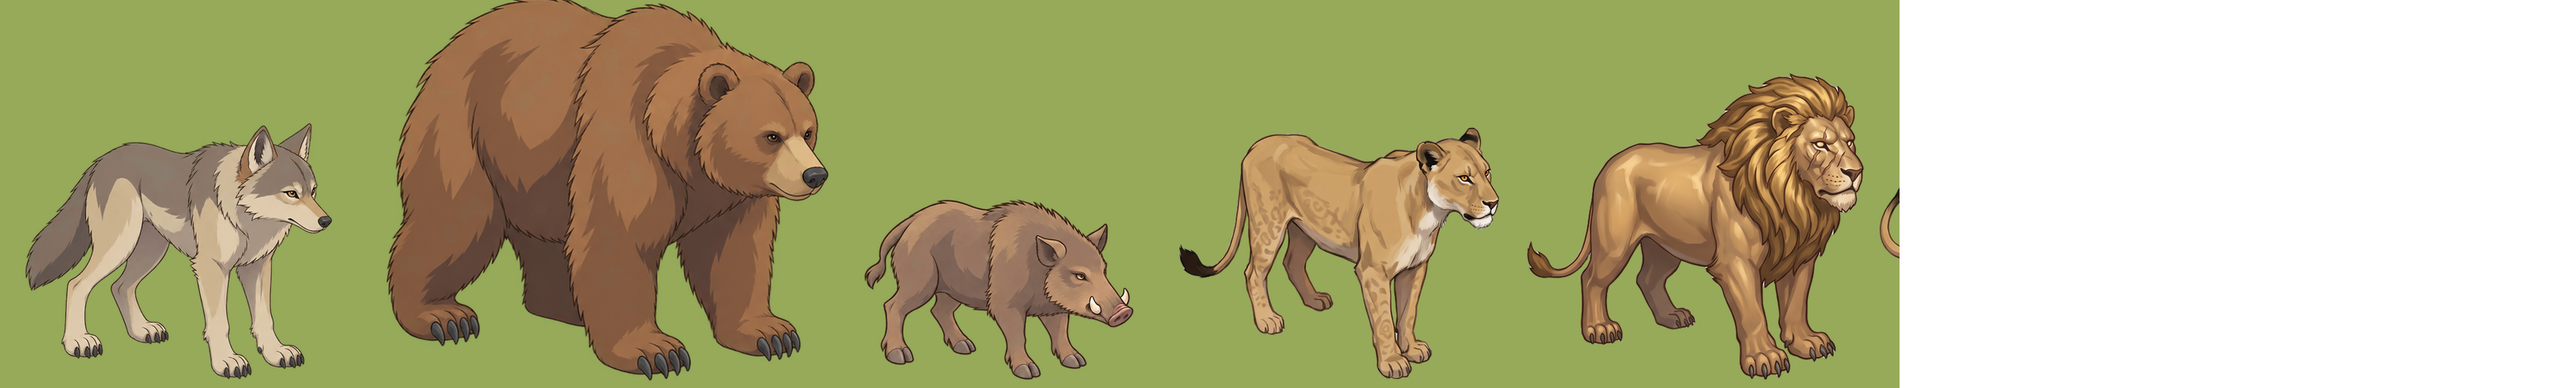
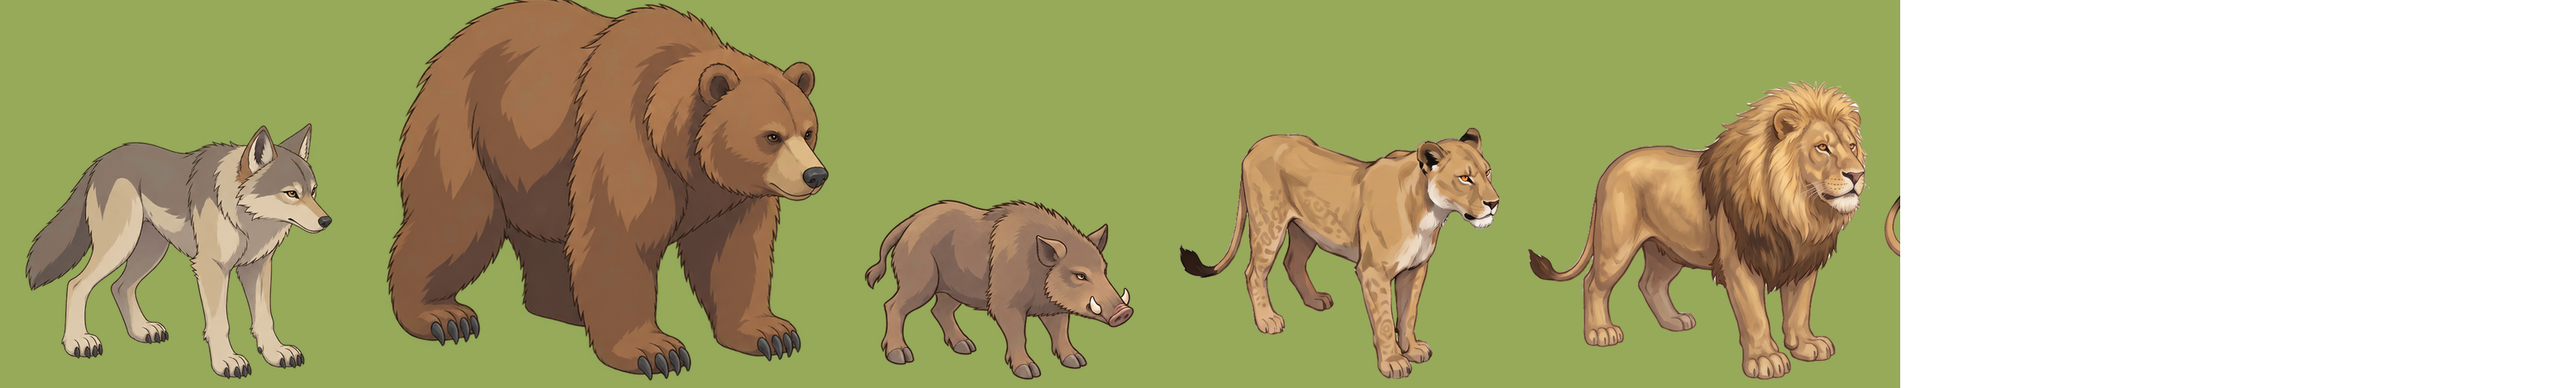
Make the lions naturalistic with thinner line work
Jakob asked for thinner line work and a lion that looks more real. Both pride
sheets were repainted with nano-banana-pro edit as naturalistic
wildlife-illustration lions. The leader now has a real lion's skull and
muzzle, a shaggy mane that is lighter at the face and darker at the chest,
and no fantasy scars.

Prompting alone barely changed line weight, so the packer's new thin_lines()
shaves every thin ink stroke by one pixel per side at 2K and lifts it toward
warm brown. Broad dark areas such as tail tufts, ear backs and mouths stay
untouched.

Claude-Session: https://claude.ai/code/session_01Tn1BkVmeuuLTe7qVsn2x5n

diff --git a/scripts/pack_wildlife.py b/scripts/pack_wildlife.py
@@ -15,6 +15,27 @@ BASELINE = 590
 
 
 
+def thin_lines(image, shave=1, lighten=0.35):
+    """Shave generated ink strokes to the family's fine line and lift them toward warm brown.
+
+    Thin dark strokes vanish under a morphological opening while broad dark areas
+    (tail tufts, ear backs, mouths) survive it and stay untouched. Shaved pixels
+    take the colour of the nearest opaque non-line pixel.
+    """
+    px = np.asarray(image).astype(float)
+    opaque = px[..., 3] > 128
+    dark = opaque & (px[..., :3] @ [0.299, 0.587, 0.114] / 255 < 0.42)
+    broad = ndimage.binary_opening(dark, iterations=5)
+    line = dark & ~ndimage.binary_dilation(broad, iterations=2)
+    core = ndimage.binary_erosion(line, iterations=shave)
+    removed = line & ~core
+    _, (iy, ix) = ndimage.distance_transform_edt(~(opaque & ~line), return_indices=True)
+    out = px.copy()
+    out[removed, :3] = px[iy[removed], ix[removed], :3]
+    out[core, :3] = out[core, :3] * (1 - lighten) + np.array([96.0, 62.0, 40.0]) * lighten
+    return Image.fromarray(out.clip(0, 255).astype(np.uint8), "RGBA")
+
+
 def main():
     source = Image.open(SOURCE).convert("RGBA")
     attacks = Image.open(ATTACK_SOURCE).convert("RGBA")
@@ -69,9 +90,10 @@ def main():
     # so a tail crossing the quadrant edge stays with its body. The lowest
     # (planted) paws sit on the shared baseline.
     half, scale = 1024, 589 / 1024
-    for row, name, source in [(3, "lioness", "huntress"), (4, "lion", "nemean")]:
+    for row, name, source in [(3, "lioness", "huntress_natural"), (4, "lion", "nemean_natural")]:
         sheet = Image.open(ROOT / f"assets/sprites/lion_sources/{source}_cutout.png").convert("RGBA")
         assert sheet.size == (2 * half, 2 * half)
+        sheet = thin_lines(sheet)
         alpha = np.asarray(sheet.getchannel("A")) > 128
         labels, count = ndimage.label(alpha)
         centers = ndimage.center_of_mass(alpha, labels, range(1, count + 1))

diff --git a/crates/client/src/view/health.rs b/crates/client/src/view/health.rs
@@ -38,7 +38,7 @@ impl WorldView {
                 aoa_game::AnimalKind::Bear => 0.8,
                 aoa_game::AnimalKind::Boar => 0.55,
                 aoa_game::AnimalKind::Lioness => 0.75,
-                aoa_game::AnimalKind::Lion => 0.86,
+                aoa_game::AnimalKind::Lion => 0.84,
             };
             let height = sprite.size[1] * (top - sprite.pivot[1]);
             if let Some(top) = rig.screen_offset(Vec3::from(sprite.anchor), up * height) {

diff --git a/docs/verification/lions/README.md b/docs/verification/lions/README.md
@@ -18,16 +18,19 @@ The injected scene is for rendering only and was not validated by the simulation
 Rejected along the way (2026-10-10): draft 1 (generic, Disney-like), the family
 pass (grey), and a warm painterly redraw (line work and colours off). Jakob then
 picked the suggested concepts: the Nemean lion as leader and the island huntress
-as lioness ([lesson](../../knowledge/asset-pipeline.md#new-species-from-the-family-sheet-2026-10-10)).
+as lioness, then asked for thinner line work and a more real lion, so both are
+now naturalistic with packer-thinned lines ([lesson](../../knowledge/asset-pipeline.md#new-species-from-the-family-sheet-2026-10-10)).
 
 - `concept-to-sprite.png`: both concepts and the four packed poses of each.
 - `style-compare.png` now shows wolf, bear, boar, lioness and lion idle, then both
   strikes, at their true in-game relative scale.
 
-Matches: thin warm brown contours, cel colour areas with one painted shadow tone,
-dark grey claws, consistent identity and colour across poses, crouched windups,
-open-jaw strikes. Still open: the Nemean hide keeps a slight sheen and both are a
-touch more detailed than the wolf; no OpenAI image_gen cleanup pass yet.
+- `thin-before-after.png`: wolf for reference; the previous packed rows (top)
+  against the naturalistic, thinned rows (bottom).
+
+Matches: fine light warm-brown contours, consistent identity and colour across
+poses, crouched windups, open-jaw strikes. Still open: both lions are more
+detailed and realistic than the wolf; no OpenAI image_gen cleanup pass yet.
 
 ## Behavior checks run
 

diff --git a/assets/sprites/lion_sources/README.md b/assets/sprites/lion_sources/README.md
@@ -5,12 +5,13 @@ walk, attack windup, attack strike, facing right and mirrored in the renderer.
 
 Integrated designs, chosen by Jakob on 2026-10-10 from `concepts/`: the **island
 huntress** (faint rosettes, black-backed ears, white throat) as the lioness and
-the **Nemean lion** (bronze-gold hide, scarred muzzle, heavy mane) as the leader.
-Each was adapted with FAL `fal-ai/nano-banana-pro/edit` (2K, 1024px cells) using
-the shipped wolf/bear sheet as the style reference and its concept as the design
-reference, then cut out with `fal-ai/birefnet/v2` (`huntress_cutout.png`,
-`nemean_cutout.png`). The Nemean sheet had generated cell divider lines painted
-out first (`nemean_render_3_clean.png`).
+the **Nemean lion** as the leader. Each was adapted with FAL
+`fal-ai/nano-banana-pro/edit` (2K, 1024px cells) from the wolf/bear sheet and its
+concept (`huntress_render_0.png`, `nemean_render_3_clean.png`, with generated
+cell dividers painted out). Jakob then asked for thinner line work and a more
+real lion, so both were repainted as naturalistic wildlife illustrations
+(`*_natural_render_0.png`, cut out as `*_natural_cutout.png`). The packer's
+`thin_lines()` shaves and lightens every ink stroke.
 
 Earlier passes (`lion*_render_*`, `*_refined_*`, `*_family_*`, `*_pro_*`) were
 rejected: generic Disney-like, then grey, then off in line work and colour.

diff --git a/docs/knowledge/asset-pipeline.md b/docs/knowledge/asset-pipeline.md
@@ -212,7 +212,11 @@ Jakob pick, then adapt each with `fal-ai/nano-banana-pro/edit` using the approve
 family sheet as style reference and the concept as design and colour reference;
 generate the second form with the first as its sibling reference. Ask for the
 facing, identical colours in every cell and two-thirds cell width explicitly,
-and check for generated cell divider lines before cutout. Provenance:
+and check for generated cell divider lines before cutout.
+Prompting for thinner lines barely changes line weight; `thin_lines()` in
+`scripts/pack_wildlife.py` thins strokes deterministically instead (1px shave at
+2K; 2px broke silhouettes). Ask for realism as a "naturalistic wildlife
+field-guide illustration" with concrete anatomy; that removed the fantasy look. Provenance:
 [lion sources](../../assets/sprites/lion_sources/provenance.json).
 
 ## Wildlife style correction (2026-10-05)

diff --git a/docs/knowledge/wildlife.md b/docs/knowledge/wildlife.md
@@ -52,7 +52,8 @@ saves load; only islands discovered after the update gain prides.
 Art: `assets/sprites/lion_sources/` (prompts, renders, cutouts, provenance) packed
 as atlas rows 3–4 by `scripts/pack_wildlife.py`. Designs (Jakob, 2026-10-10): the
 lioness is an island huntress (faint rosettes, black-backed ears, white throat),
-the leader a scarred bronze-gold Nemean lion. Sources are 1024px cells downsampled
+the leader a Nemean lion; at Jakob's request both are naturalistic, with
+packer-thinned line work. Sources are 1024px cells downsampled
 into 627px frames; quads are 0.95 and 1.0, so the leader stands about a fifth
 taller ([asset lesson](asset-pipeline.md#new-species-from-the-family-sheet-2026-10-10)).
 Style review: [lion review](../verification/lions/README.md).
